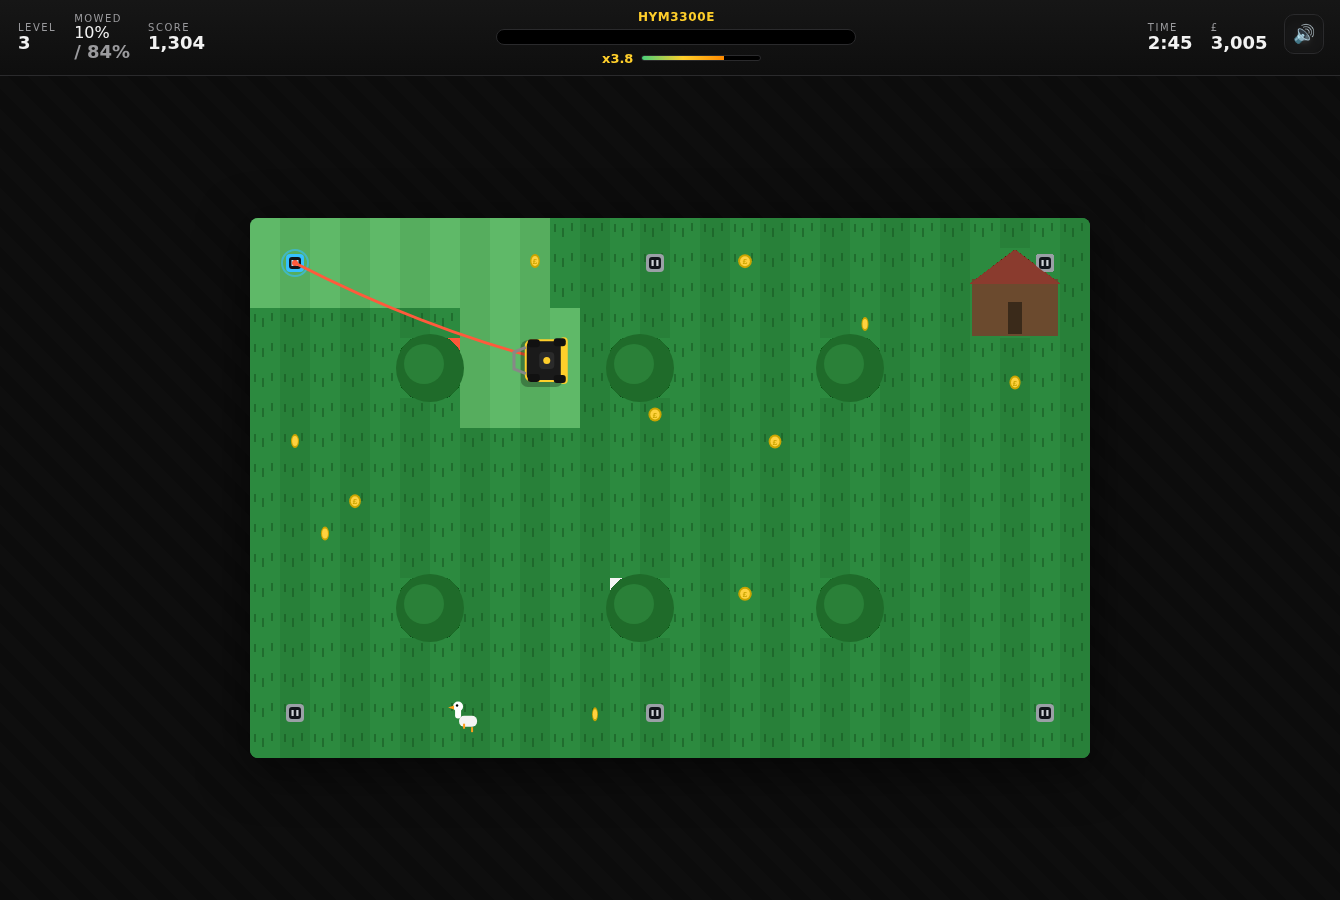
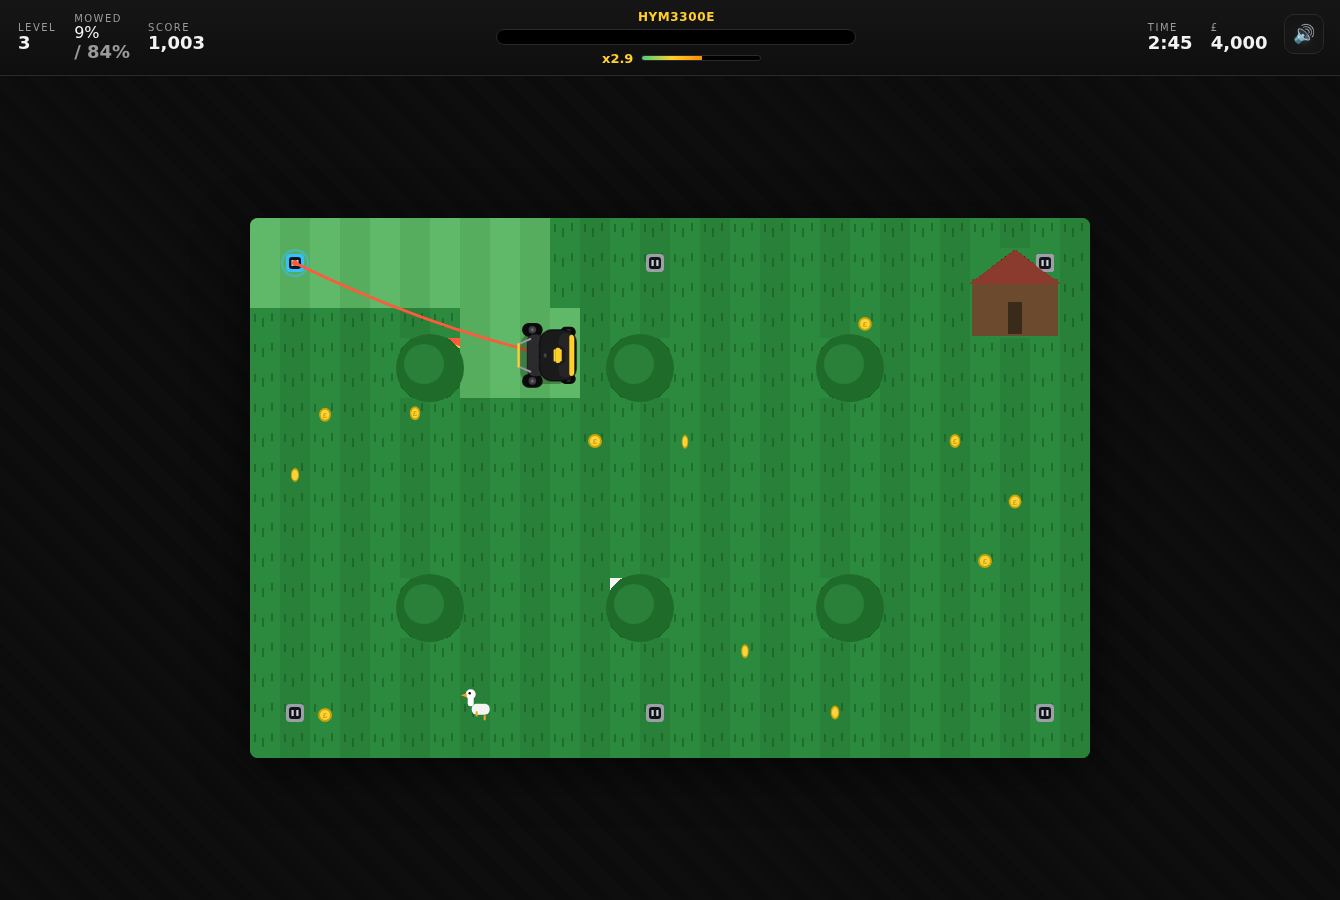
Redraw mowers as detailed, type-accurate top-down machines
Replace the abstract rectangle sprites with a single shared painter
(paintMower) used for BOTH the in-game sprite and the garage
thumbnails, so they always match. Each machine now reads as a real
Hyundai Power Products mower in the brand's black/yellow livery:

- rounded front cutting deck with a coloured cutting mouth
- centre powerplant that varies by type: petrol engine with round
  air filter, side-discharge chute and exhaust; battery pack with
  green charge LEDs; corded electric motor with vents + cable inlet;
  compact blue-accented robot dome with front bumper + sensor
- rear hard-top grass box with airflow vents
- big rear drive wheels, or a full-width striping roller on the
  roller models (HYM3800E, HYM40Li330P, HYM480SPER)
- steel handlebar with an accent grip (walk-behinds)

Garage thumbnails now render to a <canvas> via the shared painter
instead of the old inline SVG. No gameplay/logic changes; all v3
functional tests still pass with zero runtime errors.

Note: couldn't fetch reference photos directly (the sandbox network
policy blocks outbound image fetches), so the shapes are reconstructed
from the documented features and the Hyundai Power Products livery.

diff --git a/js/game.js b/js/game.js
@@ -95,7 +95,7 @@
       const card = document.createElement("div");
       card.className = "mower-card" + (selected ? " selected" : "") + (owned ? "" : " locked");
       card.innerHTML = `
-        <div class="mower-thumb">${mowerThumbSVG(m)}<span class="thumb-tag tag-${m.power}">${powerLabel(m)}</span></div>
+        <div class="mower-thumb"><canvas class="thumb-canvas" width="240" height="132"></canvas><span class="thumb-tag tag-${m.power}">${powerLabel(m)}</span></div>
         <div>
           <div class="mower-class">${m.class}</div>
           <div class="mower-name">${m.name}</div>
@@ -129,6 +129,7 @@
         foot.appendChild(sel);
       }
       grid.appendChild(card);
+      paintThumb(card.querySelector(".thumb-canvas"), m);
     });
     refreshWallets();
   }
@@ -181,21 +182,140 @@
     Sound.buy(); saveState(); renderGarage();
   }
 
-  function mowerThumbSVG(m) {
-    const w = Math.max(2, m.cutWidth);
-    return `<svg viewBox="0 0 120 92" width="100%" height="100%">
-      <rect width="120" height="92" fill="#000"/>
-      <g transform="translate(60,46)">
-        <rect x="${-w*5-6}" y="-20" width="${w*10+12}" height="40" rx="6" fill="${m.color}" stroke="${m.accent}" stroke-width="2"/>
-        <rect x="${-w*5-2}" y="14" width="${w*10+4}" height="6" rx="3" fill="${m.accent}"/>
-        <circle cx="${-w*5}" cy="-20" r="6" fill="#222" stroke="#444"/>
-        <circle cx="${w*5}" cy="-20" r="6" fill="#222" stroke="#444"/>
-        <circle cx="${-w*5}" cy="20" r="7" fill="#222" stroke="#444"/>
-        <circle cx="${w*5}" cy="20" r="7" fill="#222" stroke="#444"/>
-        ${m.robot ? '<rect x="-10" y="-10" width="20" height="20" rx="6" fill="#1a2230"/>' : ''}
-        <circle cx="0" cy="-2" r="4" fill="${m.accent}"/>
-      </g>
-    </svg>`;
+  /* ---------------- shared mower artwork ----------------
+     One painter used for BOTH the in-game sprite and the garage
+     thumbnails, so they always match. Drawn top-down, facing -y
+     (up): rounded front cutting deck, centre powerplant that
+     varies by type, a rear hard-top grass box, big rear wheels
+     (or a striping roller), and a steel handlebar — the Hyundai
+     Power Products look: black body with yellow/lime accents.   */
+  function rr(c, x, y, w, h, r) {
+    r = Math.min(r, Math.abs(w) / 2, Math.abs(h) / 2);
+    c.beginPath();
+    c.moveTo(x + r, y);
+    c.arcTo(x + w, y, x + w, y + h, r);
+    c.arcTo(x + w, y + h, x, y + h, r);
+    c.arcTo(x, y + h, x, y, r);
+    c.arcTo(x, y, x + w, y, r);
+    c.closePath();
+  }
+
+  function paintMower(c, m, opts) {
+    opts = opts || {};
+    const wide = !!opts.wide, turbo = !!opts.turbo, t = opts.t || 0;
+    const robot = !!m.robot, rider = !!m.rider;
+    const cw = Math.max(2.3, m.cutWidth + (wide ? 2 : 0));
+    const bw = cw * CELL * 0.74;                                  // deck width
+    const bl = Math.min(CELL * 2.3, Math.max(CELL * 1.5, bw * 1.0)); // body length
+    const frontY = -bl * 0.54, deckH = bl * 0.72, backY = frontY + bl;
+    const accent = wide ? "#8fd14f" : m.accent;
+
+    const wheel = (wx, wy, rad) => {
+      c.fillStyle = "#0a0a0a"; rr(c, wx - rad, wy - rad * 1.5, rad * 2, rad * 3, rad); c.fill();
+      c.fillStyle = "#3c3c40"; c.beginPath(); c.arc(wx, wy, rad * 0.55, 0, 7); c.fill();
+      c.fillStyle = "#6a6a6e"; c.beginPath(); c.arc(wx, wy, rad * 0.22, 0, 7); c.fill();
+    };
+
+    // turbo aura
+    if (turbo) {
+      c.strokeStyle = "rgba(255,138,0," + (0.45 + 0.3 * Math.sin(t / 60)) + ")";
+      c.lineWidth = 3; rr(c, -bw / 2 - 4, frontY - 4, bw + 8, bl + 8, 13); c.stroke();
+    }
+
+    // ground shadow
+    c.fillStyle = "rgba(0,0,0,.28)";
+    rr(c, -bw / 2 + 3, frontY + 5, bw, bl, 13); c.fill();
+
+    // ---- running gear (under body) ----
+    if (!robot) {
+      if (m.stripe) {                                  // rear striping roller
+        c.fillStyle = "#1d1d1f"; rr(c, -bw * 0.5, backY - bl * 0.17, bw, bl * 0.14, bl * 0.06); c.fill();
+        c.fillStyle = "#3a3a3d"; rr(c, -bw * 0.5 + 3, backY - bl * 0.17 + 2, bw - 6, 3, 2); c.fill();
+      } else {                                         // big rear drive wheels
+        wheel(-bw * 0.5, backY - bl * 0.14, bl * 0.135);
+        wheel( bw * 0.5, backY - bl * 0.14, bl * 0.135);
+      }
+      wheel(-bw * 0.46, frontY + bl * 0.16, bl * 0.1); // small front wheels
+      wheel( bw * 0.46, frontY + bl * 0.16, bl * 0.1);
+    } else {
+      wheel(-bw * 0.42, 0, bl * 0.1);
+      wheel( bw * 0.42, 0, bl * 0.1);
+    }
+
+    // ---- rear hard-top grass box (not robot) ----
+    if (!robot) {
+      c.fillStyle = "#2b2b2e"; rr(c, -bw * 0.42, backY - bl * 0.36, bw * 0.84, bl * 0.32, 7); c.fill();
+      c.strokeStyle = "rgba(0,0,0,.5)"; c.lineWidth = 1; rr(c, -bw * 0.42, backY - bl * 0.36, bw * 0.84, bl * 0.32, 7); c.stroke();
+      c.fillStyle = "#3c3c40";                         // airflow vents on the box lid
+      for (let i = 0; i < 4; i++) { rr(c, -bw * 0.34 + i * bw * 0.2, backY - bl * 0.31, bw * 0.13, bl * 0.045, 2); c.fill(); }
+    }
+
+    // ---- cutting deck ----
+    c.fillStyle = m.color; rr(c, -bw / 2, frontY, bw, deckH, 13); c.fill();
+    c.fillStyle = "rgba(255,255,255,.05)"; rr(c, -bw / 2 + 3, frontY + 3, bw - 6, deckH * 0.4, 10); c.fill();
+    c.fillStyle = accent; rr(c, -bw / 2 + 5, frontY + 2, bw - 10, 5, 3); c.fill();   // front cutting mouth
+    c.strokeStyle = "rgba(0,0,0,.55)"; c.lineWidth = 1.5; rr(c, -bw / 2, frontY, bw, deckH, 13); c.stroke();
+
+    if (m.power === "petrol") {                          // 4-in-1 side-discharge chute
+      c.fillStyle = "#181818"; rr(c, bw / 2 - 2, frontY + deckH * 0.32, bl * 0.13, deckH * 0.24, 3); c.fill();
+    }
+
+    // ---- powerplant ----
+    const cy0 = frontY + deckH * 0.5;
+    if (m.power === "petrol") {
+      c.fillStyle = "#1c1c1c"; rr(c, -bw * 0.2, cy0 - bl * 0.17, bw * 0.4, bl * 0.34, 5); c.fill();
+      c.fillStyle = "#4a4a4e"; c.beginPath(); c.arc(0, cy0, bw * 0.12, 0, 7); c.fill();   // air filter / recoil
+      c.fillStyle = "#6a6a6e"; c.beginPath(); c.arc(0, cy0, bw * 0.06, 0, 7); c.fill();
+      c.fillStyle = "#555"; rr(c, -bw * 0.27, cy0 - bl * 0.03, bw * 0.07, bl * 0.07, 2); c.fill(); // exhaust
+    } else if (m.power === "battery") {
+      c.fillStyle = "#1c1c1c"; rr(c, -bw * 0.21, cy0 - bl * 0.16, bw * 0.42, bl * 0.32, 5); c.fill();
+      c.fillStyle = "#101012"; rr(c, -bw * 0.15, cy0 - bl * 0.11, bw * 0.3, bl * 0.22, 3); c.fill();
+      c.fillStyle = "#8fd14f"; for (let i = 0; i < 3; i++) { c.beginPath(); c.arc(-bw * 0.08 + i * bw * 0.08, cy0, 1.7, 0, 7); c.fill(); }
+    } else if (m.power === "corded") {
+      c.fillStyle = "#1c1c1c"; rr(c, -bw * 0.19, cy0 - bl * 0.15, bw * 0.38, bl * 0.3, 6); c.fill();
+      c.fillStyle = accent; for (let i = 0; i < 3; i++) { rr(c, -bw * 0.12, cy0 - bl * 0.075 + i * bl * 0.06, bw * 0.24, 2, 1); c.fill(); }
+      c.fillStyle = "#444"; rr(c, -bw * 0.04, backY - bl * 0.42, bw * 0.08, bl * 0.06, 2); c.fill(); // cable inlet
+    } else if (robot) {
+      c.fillStyle = "#11151c"; rr(c, -bw * 0.36, frontY + 2, bw * 0.72, deckH - 4, 14); c.fill();
+      c.fillStyle = accent; rr(c, -bw * 0.3, frontY + 3, bw * 0.6, 3, 2); c.fill();           // front bumper
+      c.fillStyle = "#0a0d12"; c.beginPath(); c.arc(0, cy0, bw * 0.15, 0, 7); c.fill();       // sensor dome
+      c.fillStyle = accent; c.beginPath(); c.arc(0, cy0, bw * 0.055, 0, 7); c.fill();
+    }
+
+    // ---- Hyundai badge ----
+    if (!robot) { c.fillStyle = m.accent; rr(c, -bw * 0.15, cy0 - 2.5, bw * 0.3, 5, 2); c.fill(); }
+
+    // ---- handlebar (walk-behind) ----
+    if (!robot && !rider) {
+      c.lineCap = "round";
+      c.strokeStyle = "#9a9a9e"; c.lineWidth = Math.max(2, bw * 0.03);
+      c.beginPath();
+      c.moveTo(-bw * 0.32, backY - bl * 0.1); c.lineTo(-bw * 0.22, backY + bl * 0.13);
+      c.lineTo( bw * 0.22, backY + bl * 0.13); c.lineTo( bw * 0.32, backY - bl * 0.1);
+      c.stroke();
+      c.strokeStyle = accent; c.lineWidth = Math.max(2, bw * 0.045);
+      c.beginPath(); c.moveTo(-bw * 0.22, backY + bl * 0.13); c.lineTo(bw * 0.22, backY + bl * 0.13); c.stroke();
+      c.lineCap = "butt";
+    }
+  }
+
+  // paint a mower into a garage thumbnail canvas, scaled to fit
+  function paintThumb(canvas, m) {
+    if (!canvas) return;
+    const c = canvas.getContext("2d");
+    const W = canvas.width, H = canvas.height;
+    c.clearRect(0, 0, W, H);
+    const g = c.createLinearGradient(0, 0, 0, H);
+    g.addColorStop(0, "#101113"); g.addColorStop(1, "#070708");
+    c.fillStyle = g; c.fillRect(0, 0, W, H);
+    const cw = Math.max(2.3, m.cutWidth);
+    const bw = cw * CELL * 0.74, bl = Math.min(CELL * 2.3, Math.max(CELL * 1.5, bw * 1.0));
+    const scale = Math.min(W * 0.74 / bw, H * 0.78 / (bl * 1.25));
+    c.save();
+    c.translate(W / 2, H / 2 - bl * scale * 0.08);
+    c.scale(scale, scale);
+    paintMower(c, m, {});
+    c.restore();
   }
 
   /* ============================================================
@@ -919,40 +1039,7 @@
     ctx.save();
     ctx.translate(p.x, p.y);
     ctx.rotate(p.angle + Math.PI / 2);
-
-    const wide = G.wideTimer > 0;
-    const bw = (m.cutWidth + (wide ? 2 : 0)) * CELL * 0.78;
-    const bl = CELL * 1.4;
-
-    ctx.fillStyle = "rgba(0,0,0,0.28)"; roundRect(-bw/2 + 3, -bl/2 + 5, bw, bl, 7); ctx.fill();
-
-    if (G.turboTimer > 0) {
-      ctx.strokeStyle = "rgba(255,138,0," + (0.4 + 0.3*Math.sin(performance.now()/60)) + ")";
-      ctx.lineWidth = 3; roundRect(-bw/2 - 3, -bl/2 - 3, bw + 6, bl + 6, 9); ctx.stroke();
-    }
-
-    ctx.fillStyle = wide ? "#8fd14f" : m.accent; roundRect(-bw/2, -bl/2, bw, 8, 4); ctx.fill();
-    ctx.fillStyle = m.color; roundRect(-bw/2 + 3, -bl/2 + 6, bw - 6, bl - 6, 6); ctx.fill();
-    ctx.strokeStyle = m.accent; ctx.lineWidth = 2; roundRect(-bw/2 + 3, -bl/2 + 6, bw - 6, bl - 6, 6); ctx.stroke();
-
-    ctx.fillStyle = "#2a2a2a"; roundRect(-bw*0.18, -bl*0.18, bw*0.36, bl*0.36, 4); ctx.fill();
-    ctx.fillStyle = m.accent; ctx.beginPath(); ctx.arc(0, 0, 3.5, 0, Math.PI*2); ctx.fill();
-
-    if (m.robot) {
-      ctx.fillStyle = "#1a2230"; roundRect(-bw*0.3, -bl*0.3, bw*0.6, bl*0.6, 6); ctx.fill();
-      ctx.fillStyle = m.accent; ctx.fillRect(-bw*0.2, -1, bw*0.4, 2);
-    } else if (m.rider) {
-      ctx.fillStyle = "#333"; roundRect(-bw*0.16, bl*0.18, bw*0.32, bl*0.28, 4); ctx.fill();
-    } else {
-      ctx.strokeStyle = "#888"; ctx.lineWidth = 3; ctx.beginPath();
-      ctx.moveTo(-bw*0.28, bl*0.5); ctx.lineTo(-bw*0.18, bl*0.78);
-      ctx.lineTo(bw*0.18, bl*0.78); ctx.lineTo(bw*0.28, bl*0.5); ctx.stroke();
-    }
-
-    ctx.fillStyle = "#111";
-    [[-bw/2+5,-bl/2+8],[bw/2-5,-bl/2+8],[-bw/2+6,bl/2-8],[bw/2-6,bl/2-8]].forEach(([wx,wy])=>{
-      roundRect(wx-4, wy-6, 8, 12, 3); ctx.fill();
-    });
+    paintMower(ctx, m, { wide: G.wideTimer > 0, turbo: G.turboTimer > 0, t: performance.now() });
     ctx.restore();
 
     const sp = Math.hypot(p.vx, p.vy);

diff --git a/css/style.css b/css/style.css
@@ -167,7 +167,8 @@ kbd {
 }
 .mower-card.selected { border-color: var(--accent); box-shadow: 0 0 0 1px var(--accent) inset; }
 .mower-card.locked { opacity: .85; }
-.mower-thumb { height: 92px; border-radius: 10px; background: #000; position: relative; overflow:hidden; }
+.mower-thumb { border-radius: 10px; background: #000; position: relative; overflow:hidden; line-height:0; }
+.thumb-canvas { display:block; width:100%; height:auto; }
 .mower-name { font-weight: 800; font-size: 16px; }
 .mower-class { font-size: 11px; letter-spacing: .12em; text-transform: uppercase; color: var(--accent); }
 .mower-desc { font-size: 12px; color: var(--muted); min-height: 32px; line-height:1.4; }

diff --git a/README.md b/README.md
@@ -69,6 +69,14 @@ are cheap and never run out — but planning your socket route is the puzzle.
 
 *Specs are real Hyundai Power Products figures, balanced into game stats.*
 
+Each machine is hand-drawn top-down to match its real-world look — the Hyundai
+black-and-yellow livery, a centre-mounted petrol engine (with air filter, side
+chute and exhaust), a battery pack with charge LEDs, a corded electric motor
+with a cable inlet, or the compact blue-accented robot — plus a rear hard-top
+grass box and a steel handlebar (or a rear striping roller on the roller
+models). The same artwork is used for the garage thumbnails and the in-game
+sprite so they always match.
+
 ## 🗺 Career levels (8 gardens)
 
 *The Back Garden · Cottage Lawn · The Orchard · Manor Grounds · Riverside Park ·
